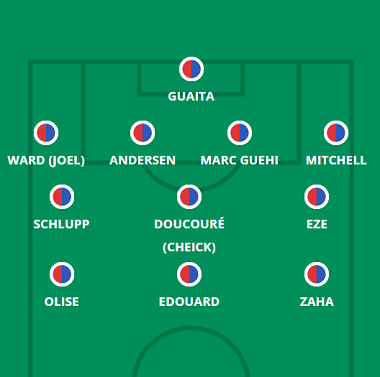
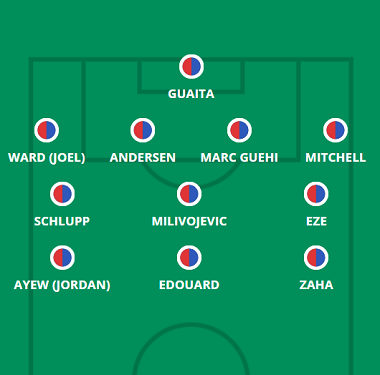
15/20

diff --git a/everton.html b/everton.html
@@ -68,7 +68,7 @@
             <hgroup>
                 <h1> Provável Escalação</h1>
                 <h2 class="direita"> por FabioVascão </h2>
-                <h3 class="direita"> Atualizado em 28/Outubro/2022 </h3>
+                <h3 class="direita"> Atualizado em 04/Novembro/2022 </h3>
             </hgroup>
     
             <h2 class="time"> <img src="_fotos/_logos/logoeverton.png" />Everton</h2>
@@ -77,9 +77,9 @@
                     <img src="_fotos/_dinamicas/everton.png" />
                 </figure>
             </aside>
-                <div class="escalacao"><h2 class="titulo">Ultimas Notícias</h2> <h4><p>Andros Townsend (joelho), Ben Godfrey (perna) e Yerry Mina (panturrilha) continuam afastados antes do jogo do Fulham, mas Nathan Patterson (joelho) está de volta ao plantel, tendo regressado aos treinos na semana passada. O Everton fez uma boa exibição contra o Crystal Palace no último fim de semana, então as mudanças provavelmente serão escassas no oeste de Londres. Alex Iwobi impressionou em um papel mais avançado no meio-campo, enquanto Lampard confirmou na quinta-feira que Dominic Calvert-Lewin passou ileso em partidas consecutivas e, portanto, o atacante propenso a lesões deve estar pronto para voltar neste sábado. Coleman espera ver o desafio de Patterson como lateral-direito por enquanto (Lampard disse que as exibições do veterano irlandês "atingiram o pico" contra o Palace), mas o técnico dos Toffees tem Mason Holgate e Michael Keane para chamar se ele precisar. mais altura para ajudar a combater Aleksandar Mitrovic, uma mudança tática que reconhecidamente parece improvável. James Garner, Abdoulaye Doucoure, Tom Davies e Neal Maupay parecem prontos para aquecer o banco novamente, com Dwight McNeil empurrando os dois alas iniciais com algumas boas participações nos últimos tempos.</p></h4><br>
-                    <h4><strong>Jogadores fora da próxima partida:</strong> Godfrey, Mina e Townsend</h4><br><br>
-                    <h4><strong>Jogadores dúvidas:</strong> </h4>
+                <div class="escalacao"><h2 class="titulo">Ultimas Notícias</h2> <h4><p>O ausente de longa data Andros Townsend (joelho) é o único jogador do Everton ainda na sala de fisioterapia antes da 15° Rodada, embora Ben Godfrey (perna) e Yerry Mina (panturrilha) provavelmente não estejam aptos o suficiente para jogar, apesar de seus retornos recentes para o campo de treinamento. A escalação de Frank Lampard permaneceu praticamente inalterada desde o intervalo internacional, com nove jogadores começando todas as seis partidas e os outros dois - Dominic Calvert-Lewin e Anthony Gordon - recuperando suas vagas após lesão e suspensão, respectivamente. A vaga de lateral-direito pode estar em disputa esta semana, no entanto, com Nathan Patterson parecendo confortável em sua aparição como substituto no último fim de semana e declarado "pronto para começar" na entrevista coletiva de Frank Lampard na sexta-feira. Seamus Coleman pode ter crédito suficiente no banco para manter seu lugar por enquanto, principalmente depois de embolsar Wilfried Zaha na 13° Rodada, mas o veterano irlandês lutou contra Willian em Craven Cottage. Enquanto isso, as performances de Gordon continuam a decepcionar, e Dwight McNeil não pode estar muito longe de um recall se as exibições abaixo do par se arrastarem por muito mais tempo.</p></h4><br>
+                    <h4><strong>Jogadores fora da próxima partida:</strong> Townsend</h4><br><br>
+                    <h4><strong>Jogadores dúvidas:</strong> Godfrey e Mina</h4>
                 </div> 
         </header>
         </article>

diff --git a/palace.html b/palace.html
@@ -68,7 +68,7 @@
             <hgroup>
                 <h1> Provável Escalação</h1>
                 <h2 class="direita"> por FabioVascão </h2>
-                <h3 class="direita"> Atualizado em 28/Outubro/2022 </h3>
+                <h3 class="direita"> Atualizado em 04/Novembro/2022 </h3>
             </hgroup>
     
             <h2 class="time"> <img src="_fotos/_logos/logopalace.png" />Crystal Palace</h2>
@@ -77,9 +77,9 @@
                     <img src="_fotos/_dinamicas/palace.png" />
                 </figure>
             </aside>
-                <div class="escalacao"><h2 class="titulo">Ultimas Notícias</h2> <h4><p>Patrick Vieira disse que a situação da equipe do Palace continua a mesma da semana passada, o que presumivelmente significa que Nathaniel Clyne (tornozelo), Chris Richards (músculo posterior da coxa), James McArthur (virilha) e Nathan Ferguson (condicionamento físico) estão novamente em contenção. Cheikhou Doucoure retorna da suspensão antes do jogo do Southampton, pelo menos, e ele voltará ao meio-campo depois que sua presença fez muita falta em Goodison Park no último fim de semana. Normalmente, tem sido dois de três de Michael Olise, Jordan Ayew e Jeffrey Schlupp para as funções de meio-campo/ala direita ultimamente, com Luka Milivojevic, Jairo Riedewald e Will Hughes raramente entrando na equação da sala de máquinas, exceto quando Doucoure estava ausente na última semana. Os quatro zagueiros devem permanecer inalterados, já que Clyne e Richards estão prestes a perder novamente, enquanto Doucoure, Wilfried Zaha e Eberechi Eze começaram todas as partidas em que estiveram disponíveis nesta temporada. Enquanto isso, Odsonne Edouard começou os últimos cinco jogos da liga no topo, mas sabemos por experiência passada que Vieira não pode ser 100% confiável com suas seleções no ataque, e as águias têm Jean-Philippe Mateta esperando nas alas.</p></h4><br>
-                    <h4><strong>Jogadores fora da próxima partida:</strong> McArthur</h4><br><br>
-                    <h4><strong>Jogadores dúvidas:</strong> Butland, Clyne, Richards e Ferguson</h4>
+                <div class="escalacao"><h2 class="titulo">Ultimas Notícias</h2> <h4><p>Chris Richards (músculo posterior da coxa) e James McArthur (virilha) permanecem de fora, enquanto Nathan Ferguson (ritmo de jogo) parece pronto para continuar acumulando valioso tempo de jogo com a equipe da academia por enquanto. Em outros lugares, Cheick Doucoure e Odsonne Edouard serão avaliados no sábado depois de sofrerem lesões não especificadas antes ou durante a vitória da semana passada sobre o Southampton, com Doucoure apenas fazendo sua primeira reaparição no treinamento na sexta-feira para colocar algumas dúvidas sobre seu envolvimento no fim de semana. Jean-Philippe Mateta e Luka Milivojevic estarão de prontidão para substituí-los caso a dupla fique de fora. O enxerto de Jordan Ayew é tipicamente preferido à astúcia de Michael Olise em partidas mais difíceis fora de casa, enquanto Mateta e James Tomkins são considerados, independentemente de lesões em outros lugares, se Patrick Vieira procurar combater as forças aéreas e as proezas de bola parada do West Ham - uma área onde os Eagles historicamente têm lutado .</p></h4><br>
+                    <h4><strong>Jogadores fora da próxima partida:</strong> McArthur e Richards</h4><br><br>
+                    <h4><strong>Jogadores dúvidas:</strong> Butland, Doucouré, Edouard e Ferguson (Nathan) </h4>
                 </div> 
         </header>
         </article>
